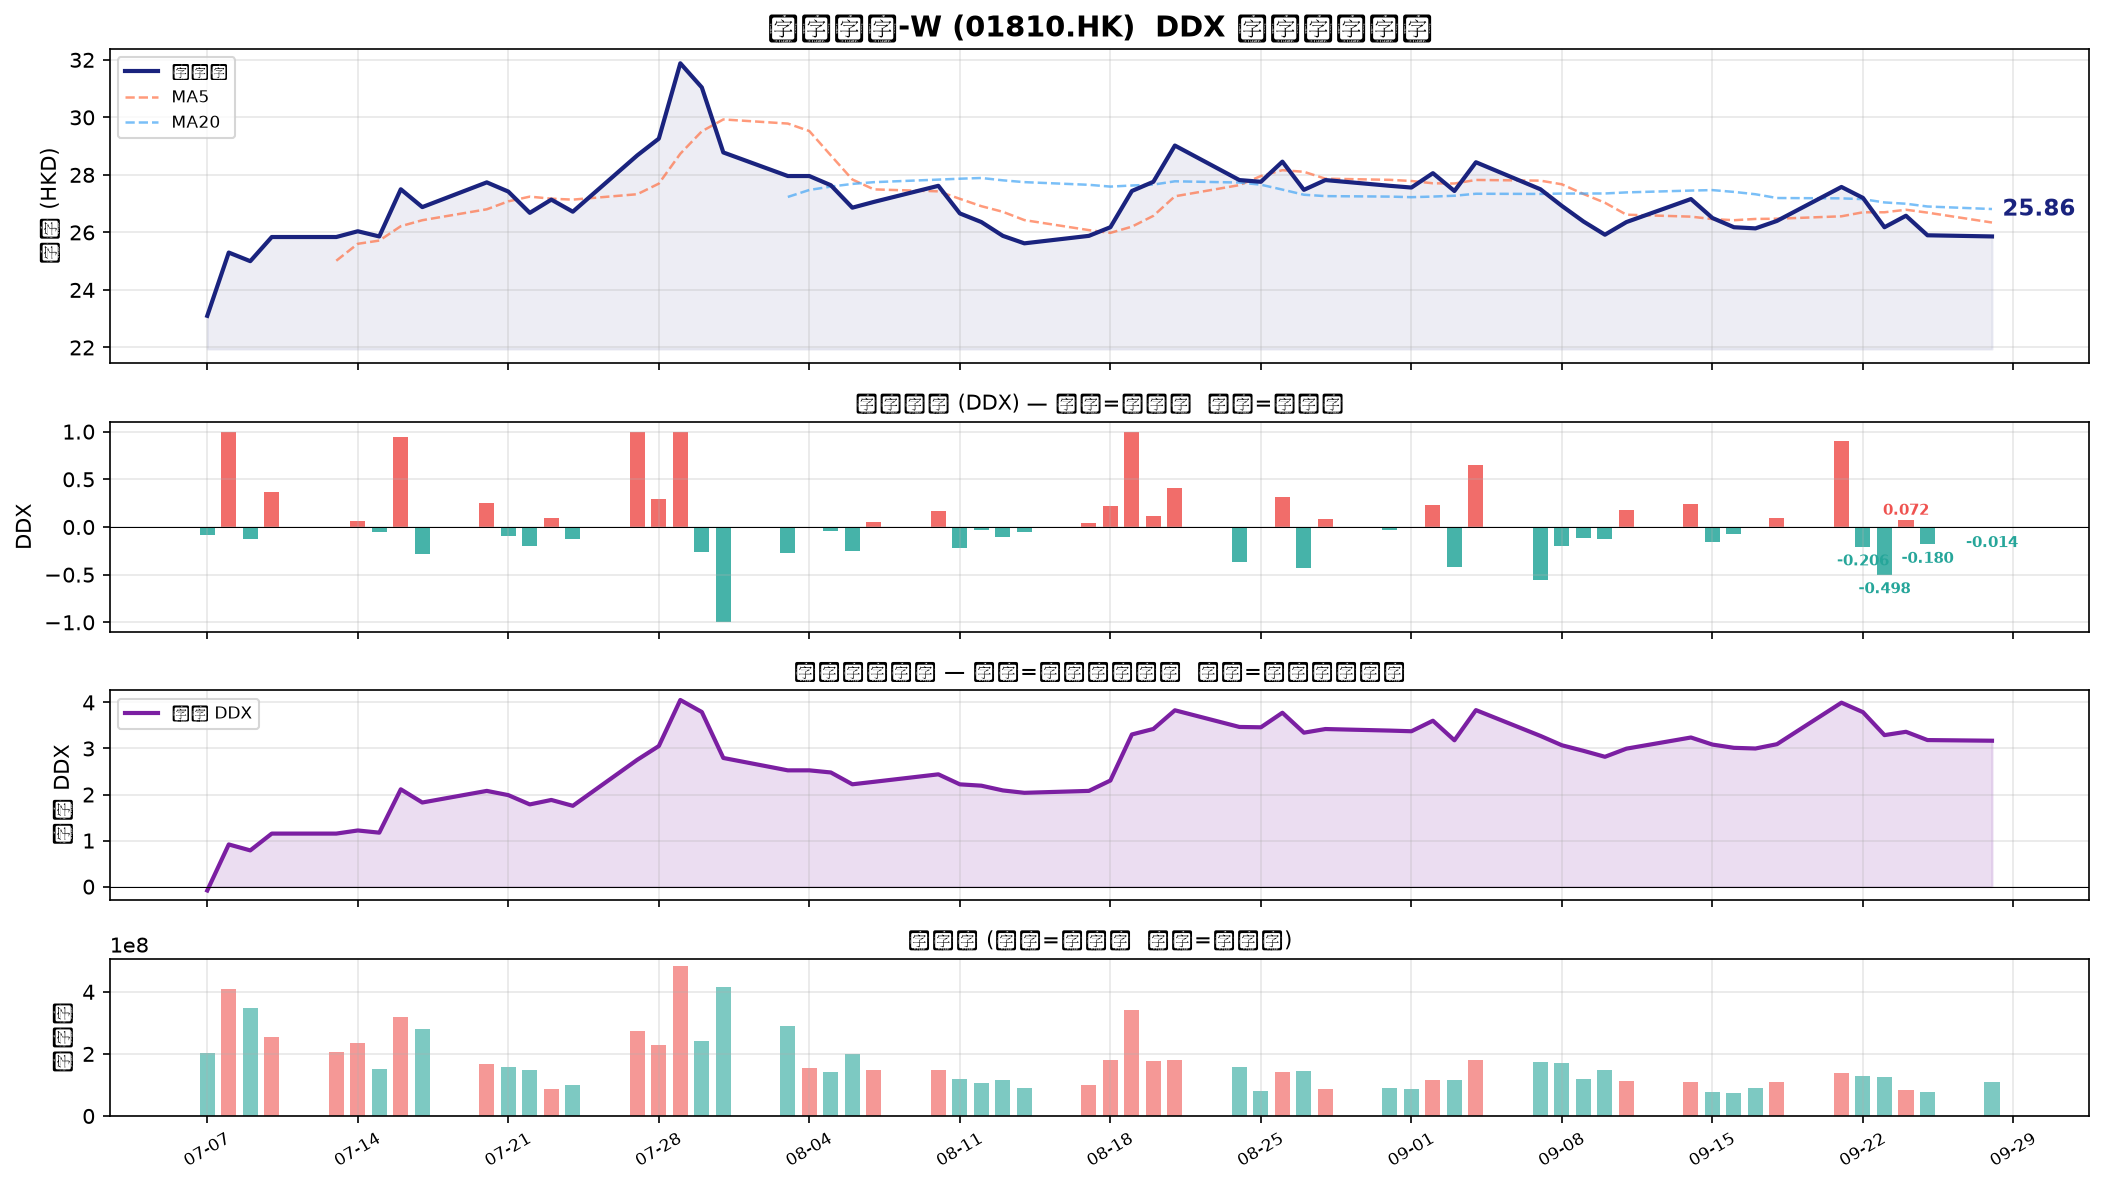
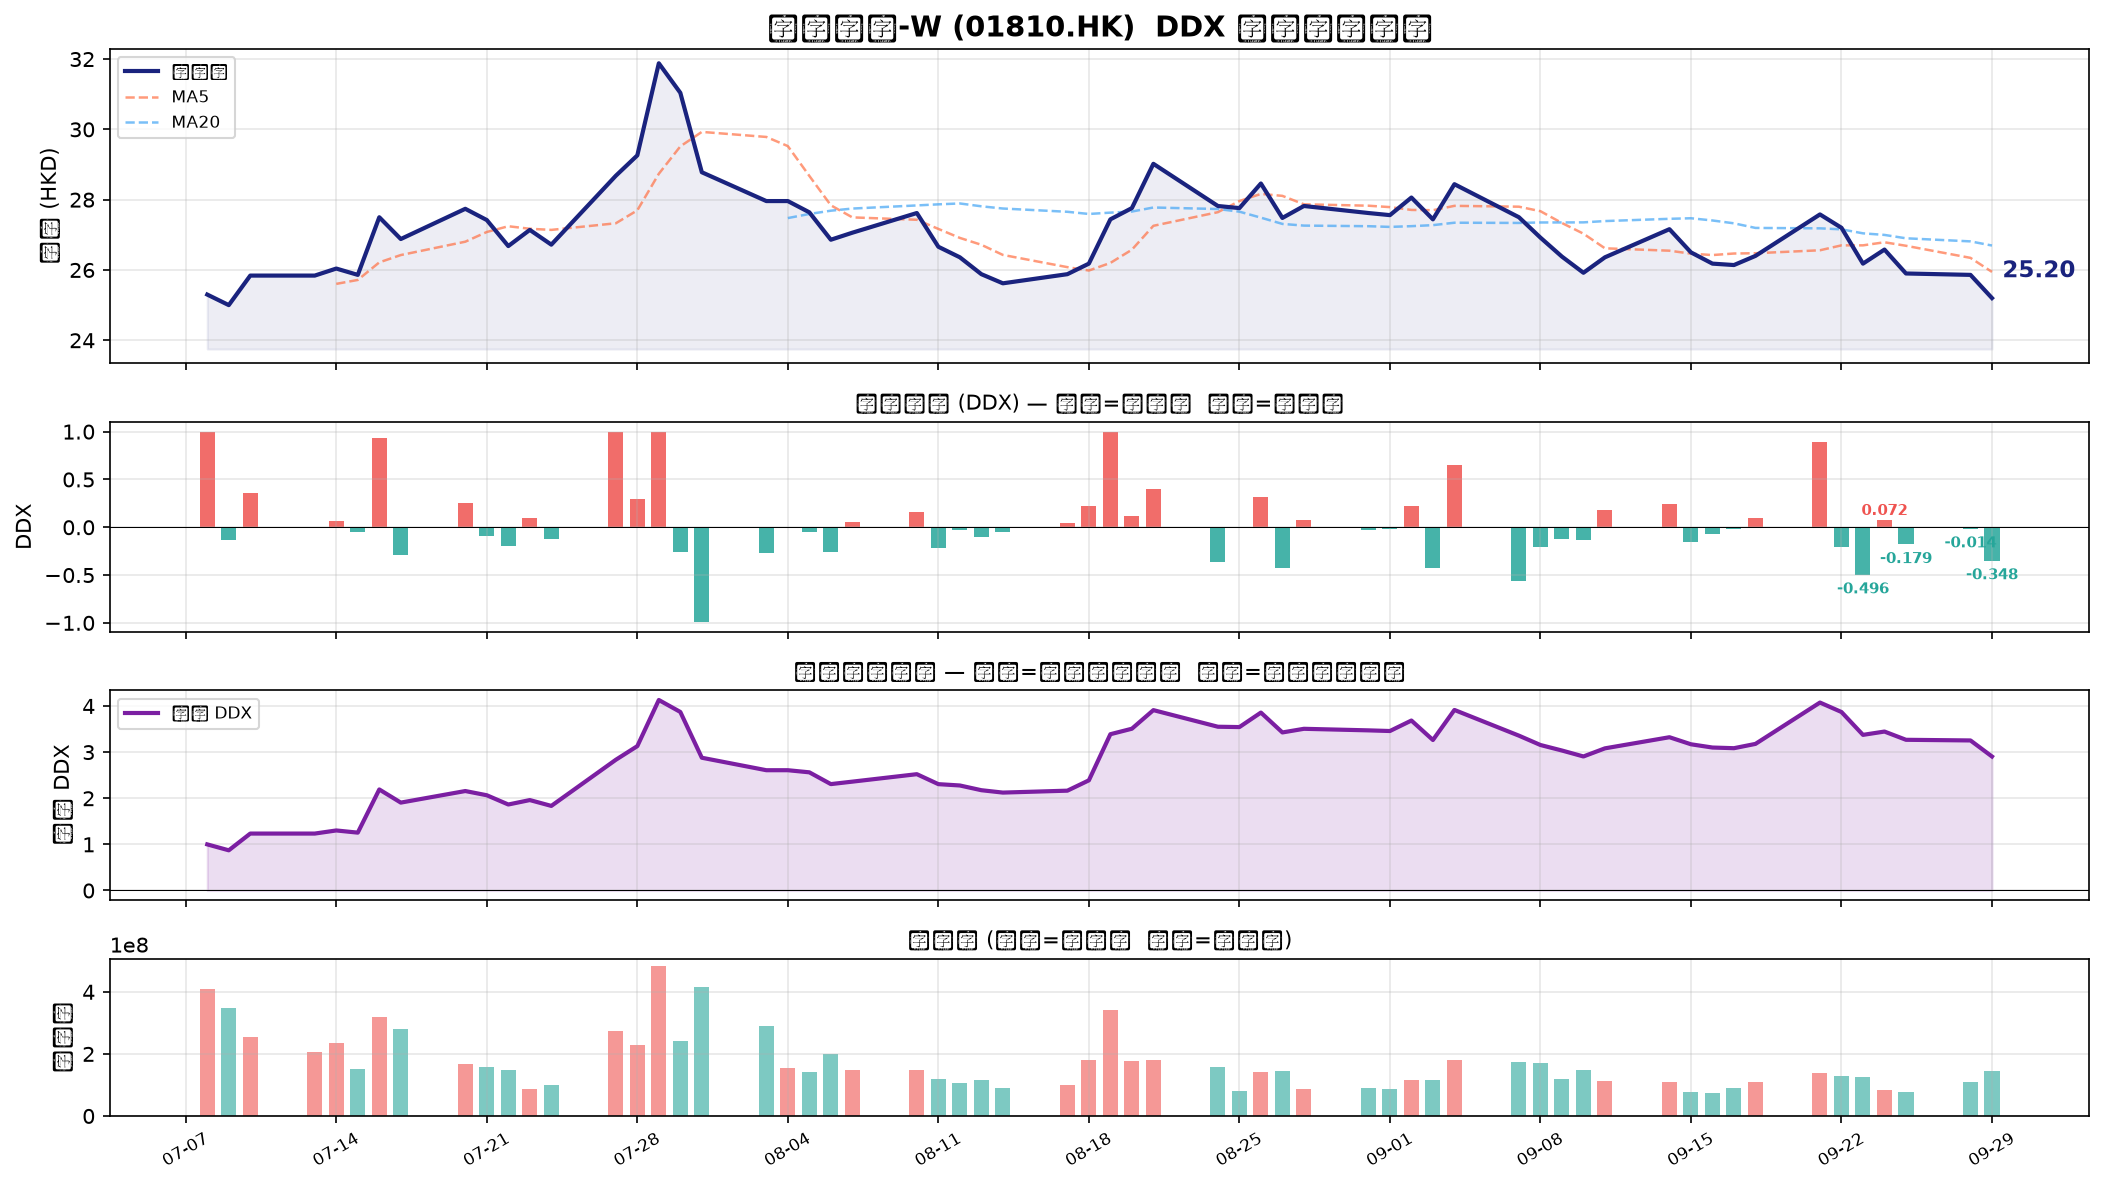
📊 DDX 每日对比报告 - 2026-09-29 23:02

diff --git a/output/ddx_report_20260929.md b/output/ddx_report_20260929.md
@@ -1,6 +1,6 @@
 # 小米集团-W (01810.HK) DDX 每日对比报告
 
-**生成时间**: 2026-09-29 00:59:01
+**生成时间**: 2026-09-29 23:02:58
 
 ---
 
@@ -8,30 +8,30 @@
 
 | 指标 | 数值 |
 |:-----|:----:|
-| 收盘价 | 25.86 HKD |
-| 涨跌幅 | -0.15% |
-| 涨跌额 | -0.0400 HKD |
-| 成交量 | 1.10 亿股 |
-| 成交额 | 28.50 亿港元 |
-| 振幅 | 2.93% |
+| 收盘价 | 25.20 HKD |
+| 涨跌幅 | -2.55% |
+| 涨跌额 | -0.6600 HKD |
+| 成交量 | 1.46 亿股 |
+| 成交额 | 36.90 亿港元 |
+| 振幅 | 3.33% |
 
 ## 📈 DDX 多周期对比
 
 | 周期 | DDX 累计值 | 趋势判断 |
 |:----|:---------:|:--------|
-| 今日 | -0.0143 | 大单资金流向中性，主力无明显动作 |
-| 近3日 | -0.1217 | 大单资金小幅流出，主力有减仓迹象 |
-| 近5日 | -0.8263 | 大单资金大幅流出，主力持续减仓，注意风险 |
-| 近10日 | -0.0703 | 大单资金小幅流出，主力有减仓迹象 |
-| 近20日 | -0.2199 | 大单资金大幅流出，主力持续减仓，注意风险 |
+| 今日 | -0.3480 | 大单资金大幅流出，主力持续减仓，注意风险 |
+| 近3日 | -0.5408 | 大单资金大幅流出，主力持续减仓，注意风险 |
+| 近5日 | -0.9645 | 大单资金大幅流出，主力持续减仓，注意风险 |
+| 近10日 | -0.2649 | 大单资金大幅流出，主力持续减仓，注意风险 |
+| 近20日 | -0.5525 | 大单资金大幅流出，主力持续减仓，注意风险 |
 
 ## 📉 趋势判断
 
 ### 短期（1-3日）
-大单资金小幅流出，主力有减仓迹象
+大单资金大幅流出，主力持续减仓，注意风险
 
 ### 中期（5-10日）
-大单资金小幅流出，主力有减仓迹象
+大单资金大幅流出，主力持续减仓，注意风险
 
 ### 长期（20日）
 大单资金大幅流出，主力持续减仓，注意风险
@@ -40,11 +40,11 @@
 
 | 日期 | 收盘价 | 涨跌幅 | DDX | 成交量(亿) |
 |:---|:-----:|:-----:|:---:|:--------:|
-| 09-22 | 27.20 | -1.38% | -0.2063 | 1.28 |
-| 09-23 | 26.18 | -3.75% | -0.4982 | 1.26 |
-| 09-24 | 26.58 | +1.53% | +0.0722 | 0.82 |
-| 09-25 | 25.90 | -2.56% | -0.1797 | 0.78 |
-| 09-28 | 25.86 | -0.15% | -0.0143 | 1.10 |
+| 09-23 | 26.18 | -3.75% | -0.4955 | 1.26 |
+| 09-24 | 26.58 | +1.53% | +0.0718 | 0.82 |
+| 09-25 | 25.90 | -2.56% | -0.1787 | 0.78 |
+| 09-28 | 25.86 | -0.15% | -0.0142 | 1.10 |
+| 09-29 | 25.20 | -2.55% | -0.3480 | 1.46 |
 
 ---
 
